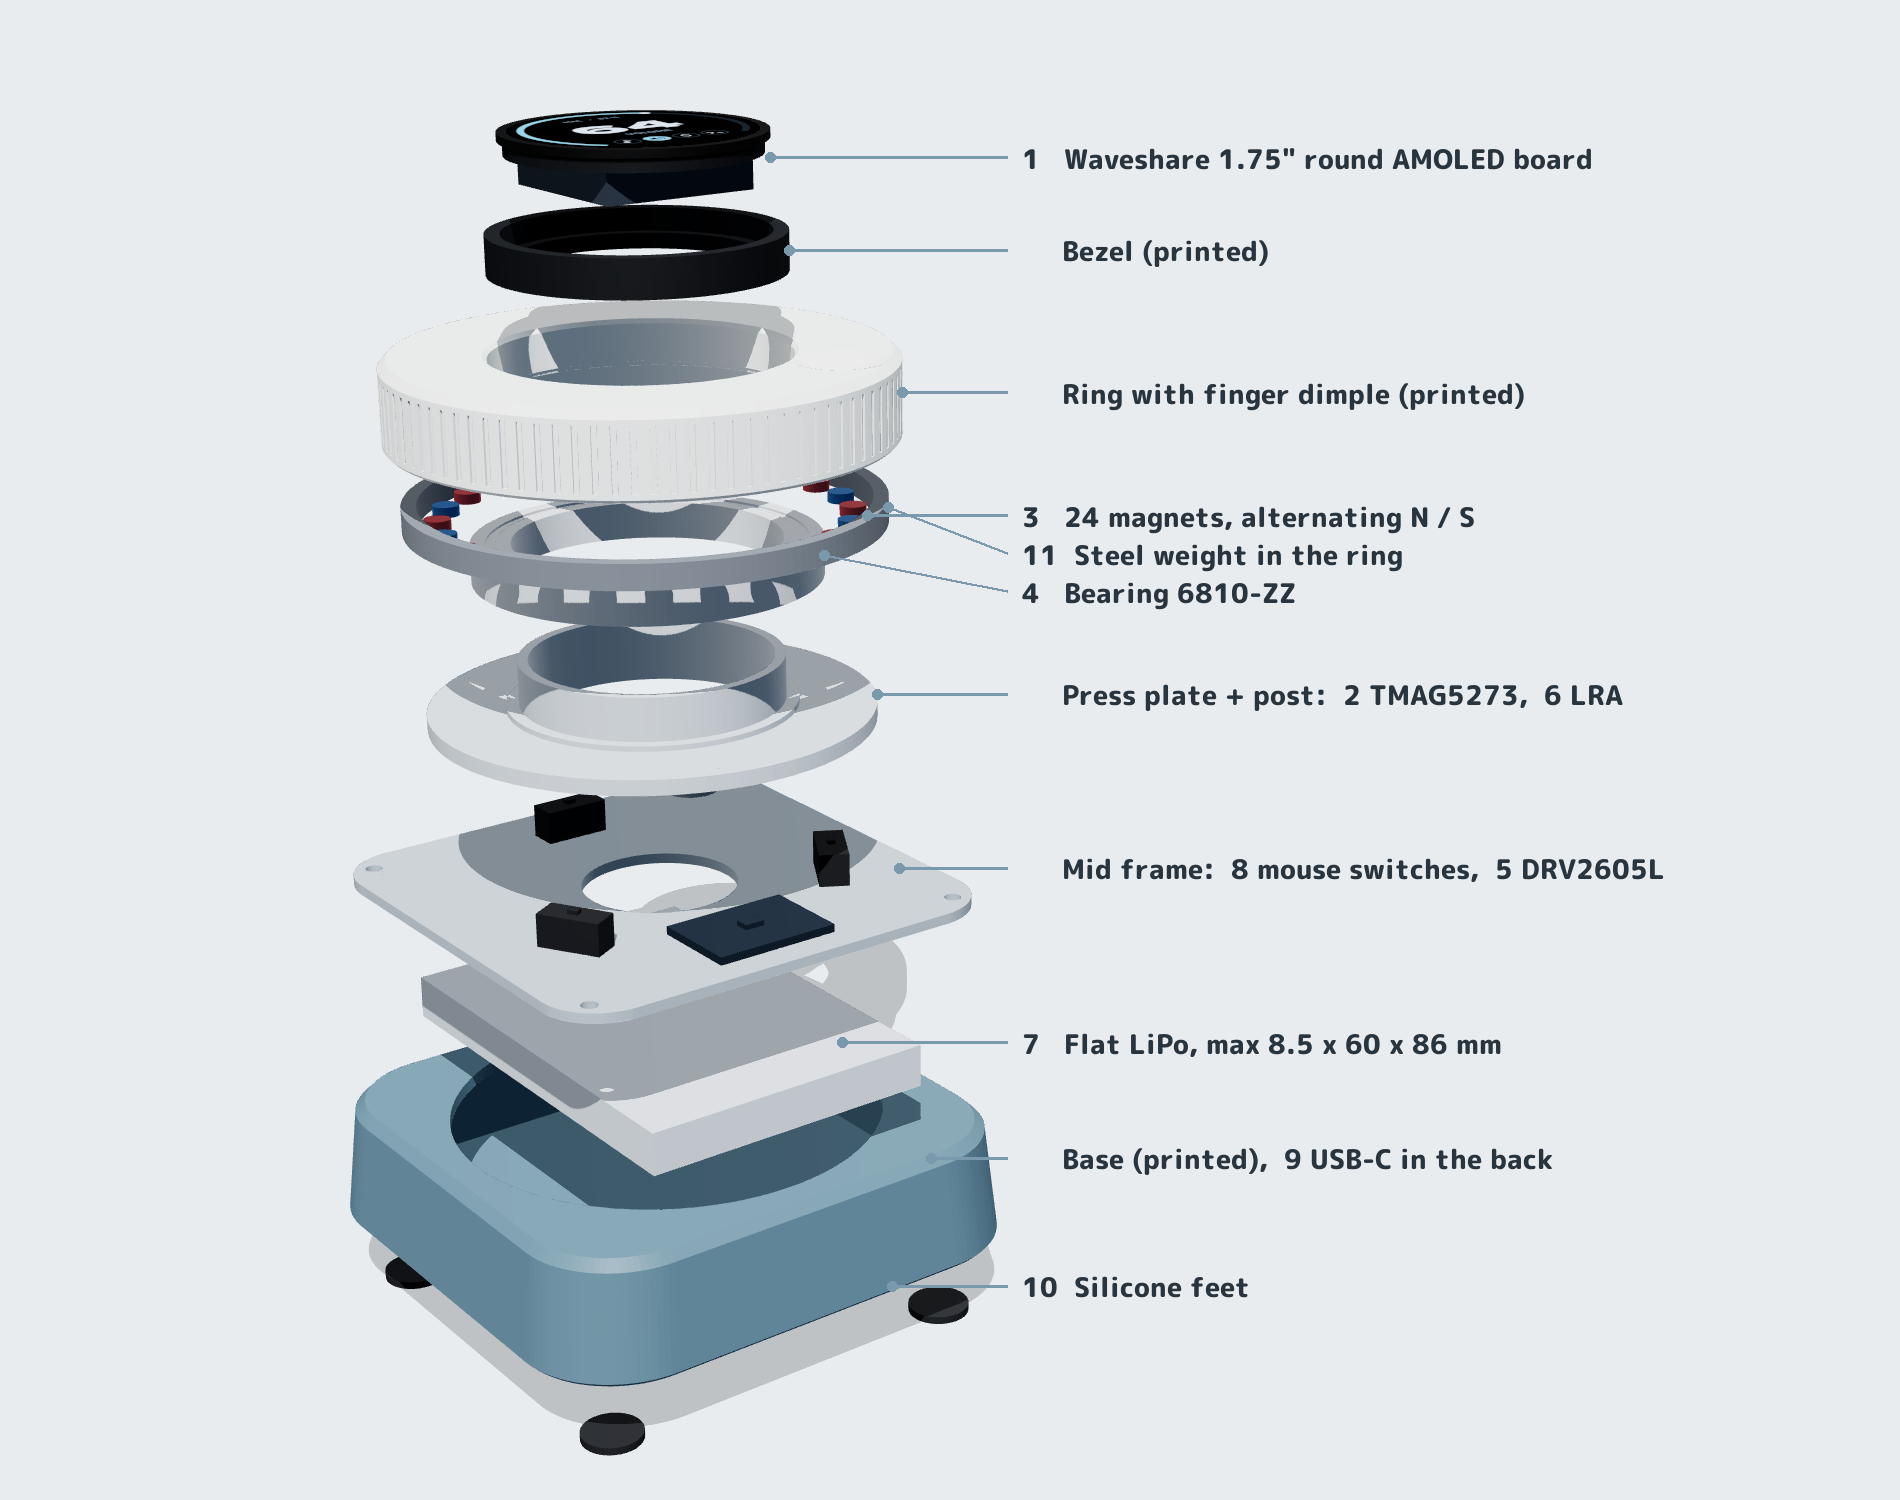
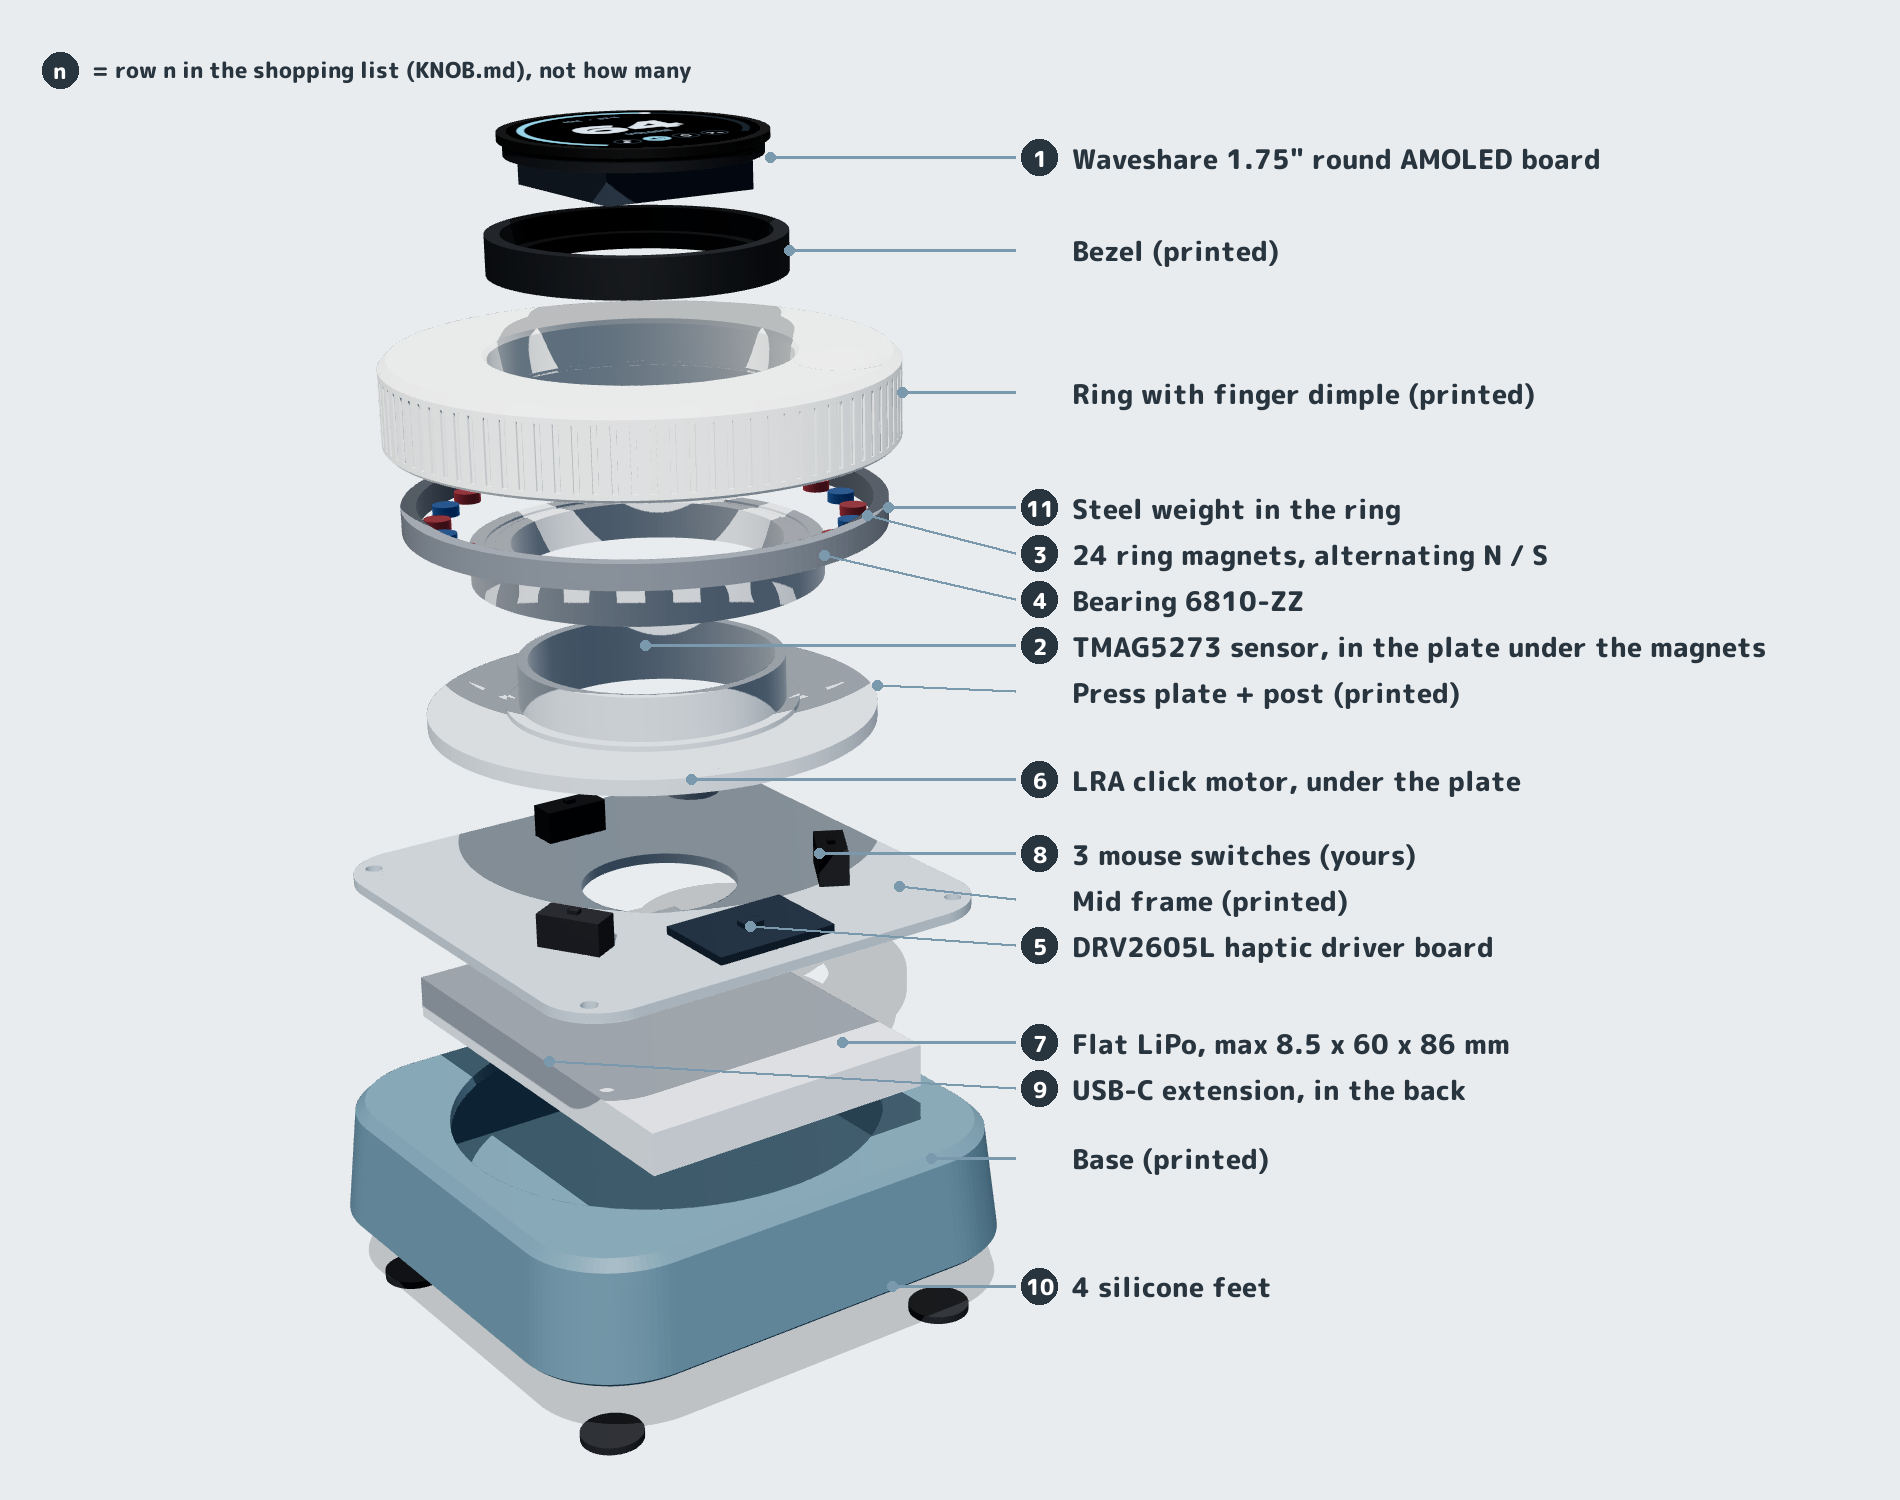
Desk knob: shopping list with part numbers and search terms, clearer exploded labels
The exploded image's numbers are now circles meaning shopping-list rows,
not quantities (1 sensor, 1 LRA, 1 haptic driver). LRA: Vybronics
VG1040003D (or PMD C10-100 / AliExpress 0832 LRA); ring magnets:
supermagnete S-05-02-N52N; every row has a search term.

Claude-Session: https://claude.ai/code/session_01GgfTwfxEfj6hEKR8udaAPD

diff --git a/case/knob/label.py b/case/knob/label.py
@@ -4,7 +4,7 @@
 Usage: python3 label.py OUTDIR RENDERS FONTDIR
 Reads OUTDIR/spec-exploded.json + OUTDIR/assembly/info.json, draws on
 RENDERS/exploded.png and writes RENDERS/exploded-labelled.png.
-Numbers match the parts list in KNOB.md.
+Balloon numbers = rows of the shopping list in KNOB.md (not quantities).
 """
 import json
 import sys
@@ -17,20 +17,24 @@ spec = json.load(open(f"{out}/spec-exploded.json"))
 info = json.load(open(f"{out}/assembly/info.json"))
 bbox = info["bbox"]
 
-GROUPS = [  # (label, parts it points at); numbers = KNOB.md parts list
-    ("1   Waveshare 1.75\" round AMOLED board", ["glass", "panel", "pcb", "pcb_parts"]),
-    ("     Bezel (printed)", ["bezel"]),
-    ("     Ring with finger dimple (printed)", ["ring"]),
-    ("3   24 magnets, alternating N / S", ["magnets_n", "magnets_s"]),
-    ("11  Steel weight in the ring", ["steel"]),
-    ("4   Bearing 6810-ZZ", ["bearing"]),
-    ("     Press plate + post:  2 TMAG5273,  6 LRA", ["plate", "tmag", "lra"]),
-    ("     Mid frame:  8 mouse switches,  5 DRV2605L", ["mid_frame", "switches", "drv2605"]),
-    ("7   Flat LiPo, max 8.5 x 60 x 86 mm", ["battery"]),
-    ("     Base (printed),  9 USB-C in the back", ["base", "usb_c"]),
-    ("10  Silicone feet", ["feet"]),
+GROUPS = [  # (shopping-list row in KNOB.md or None for printed parts, label, parts)
+    (1, "Waveshare 1.75\" round AMOLED board", ["glass", "panel", "pcb", "pcb_parts"]),
+    (None, "Bezel (printed)", ["bezel"]),
+    (None, "Ring with finger dimple (printed)", ["ring"]),
+    (3, "24 ring magnets, alternating N / S", ["magnets_n", "magnets_s"]),
+    (11, "Steel weight in the ring", ["steel"]),
+    (4, "Bearing 6810-ZZ", ["bearing"]),
+    (None, "Press plate + post (printed)", ["plate"]),
+    (2, "TMAG5273 sensor, in the plate under the magnets", ["tmag"]),
+    (6, "LRA click motor, under the plate", ["lra"]),
+    (None, "Mid frame (printed)", ["mid_frame"]),
+    (8, "3 mouse switches (yours)", ["switches"]),
+    (5, "DRV2605L haptic driver board", ["drv2605"]),
+    (7, "Flat LiPo, max 8.5 x 60 x 86 mm", ["battery"]),
+    (None, "Base (printed)", ["base"]),
+    (9, "USB-C extension, in the back", ["usb_c"]),
+    (10, "4 silicone feet", ["feet"]),
 ]
-
 off = {p["file"].rsplit("/", 1)[1][:-4]: np.array(p.get("offset", [0, 0, 0]), float) for p in spec["parts"]}
 
 
@@ -57,18 +61,33 @@ def project(p):
 img = Image.open(f"{renders}/exploded.png").convert("RGB")
 dr = ImageDraw.Draw(img)
 font = ImageFont.truetype(f"{fonts}/MPLUSRounded1c-ExtraBold.ttf", 27)
-INK, LINE = (40, 52, 62), (122, 153, 172)
-anchors = []
-for text, names in GROUPS:  # front-right corner of each group, mid height
-    b0, b1 = box_of(names)
-    anchors.append(project([b1[0] * 0.8, b0[1] * 0.6, (b0[2] + b1[2]) / 2]))
-col_x = max(a[0] for a in anchors) + 90
+small = ImageFont.truetype(f"{fonts}/MPLUSRounded1c-ExtraBold.ttf", 22)
+INK, LINE, R = (40, 52, 62), (122, 153, 172), 18
+
+
+def anchor_of(names):
+    lo, hi = box_of(names)
+    if hi[0] - lo[0] > 30:  # round-ish part centred on the axis: its front-right edge
+        return project([hi[0] * 0.8, lo[1] * 0.6, (lo[2] + hi[2]) / 2])
+    return project((lo + hi) / 2)  # small part: its middle
+
+
+rows = sorted(((anchor_of(n), num, text) for num, text, n in GROUPS), key=lambda r: r[0][1])
+col_x = max(a[0] for a, _, _ in rows) + 90
 last_y = -1e9
-for (text, names), anchor in zip(GROUPS, anchors):
-    y = max(anchor[1], last_y + 38)
+for anchor, num, text in rows:
+    y = max(anchor[1], last_y + 46)
     last_y = y
-    dr.line([anchor, (col_x - 14, y)], fill=LINE, width=3)
+    dr.line([anchor, (col_x - 6, y)], fill=LINE, width=3)
     dr.ellipse([anchor[0] - 5, anchor[1] - 5, anchor[0] + 5, anchor[1] + 5], fill=LINE)
-    dr.text((col_x, y), text, font=font, fill=INK, anchor="lm")
+    cx = col_x + R
+    if num is not None:  # balloon = row in the shopping list, NOT a quantity
+        dr.ellipse([cx - R, y - R, cx + R, y + R], fill=INK)
+        dr.text((cx, y + 1), str(num), font=small, fill=(255, 255, 255), anchor="mm")
+    dr.text((col_x + 2 * R + 14, y), text, font=font, fill=INK, anchor="lm")
+dr.ellipse([60 - R, 70 - R, 60 + R, 70 + R], fill=INK)
+dr.text((60, 71), "n", font=small, fill=(255, 255, 255), anchor="mm")
+dr.text((60 + R + 14, 70), "= row n in the shopping list (KNOB.md), not how many",
+        font=small, fill=INK, anchor="lm")
 img.save(f"{renders}/exploded-labelled.png")
 print("wrote exploded-labelled")

diff --git a/case/knob/knob.py b/case/knob/knob.py
@@ -395,7 +395,7 @@ def drv2605():
 
 
 def lra():
-    return cyl(10.0, Z_PLATE0 - 3.6, Z_PLATE0 - 0.02, -10.0, -28.0, seg=48)
+    return cyl(10.0, Z_PLATE0 - 4.0, Z_PLATE0 - 0.02, -10.0, -28.0, seg=48)  # VG1040003D: 10 x 4 mm
 
 
 def tmag():

diff --git a/KNOB.md b/KNOB.md
@@ -93,32 +93,34 @@ after a few seconds and wakes on touch, on turning or on pick-up.
 
 ## Shopping list
 
-Prices are rough, in kronor, including VAT and shipping. The numbers match
-the labels on the exploded render.
+Prices are rough, in kronor, including VAT and shipping. **Qty** is how
+many to buy. The numbered circles on the exploded image are the **#** of
+the row here, not how many (so it's 1 sensor, 1 LRA and 1 haptic driver).
+**Search for** is what to type in the shop's search box.
 
-| # | Part | Qty | Notes | ~kr |
-|---|------|-----|-------|-----|
-| 1 | **Waveshare ESP32-S3-Touch-AMOLED-1.75**, standard version without case (SKU 31261) | 1 | Waveshare store, AliExpress (Waveshare's own shop) or The Pi Hut. Check the schematic first, see "Before ordering" | 350–450 |
-| 2 | **TMAG5273 breakout**: Adafruit 6490 (the A2, ±133 mT range) | 1 | Use the A2: strong magnets 1–2 mm away can max out the A1. Add a JST-SH (STEMMA QT/Qwiic) to male-header cable | 100–140 |
-| 3 | **Neodymium disc magnets 5 × 2 mm, N52** | 30+ | 24 in the ring plus spares. AliExpress 50-packs | 40–80 |
-| 4 | **Bearing 6810-ZZ** (50 × 65 × 7 mm) | 1 | **ZZ** (metal shields), not 2RS (rubber seals drag). Wash out the grease and add a drop of light oil for a free spin | 50–100 |
-| 5 | **DRV2605L haptic driver board** | 1 | Adafruit 2305 (about 85 kr at RS Sweden) or an AliExpress clone (about 40 kr) | 40–85 |
-| 6 | **LRA, 10 mm coin** (~170–235 Hz) | 1–2 | Must be an LRA, not an ERM "vibration motor disc"; LRAs give the crisp tap | 30–60 |
-| 7 | **Flat LiPo, ~3000 mAh**, with a protection circuit, **no bigger than 8.5 × 60 × 86 mm** | 1 | Size codes read thickness-width-length: e.g. 805080 = 8 × 50 × 80 mm. The board takes a **2-pin MX1.25** plug. **Check the polarity with a multimeter before plugging in**: sellers wire it both ways | 100–150 |
-| 8 | Mouse micro switches | 3 | **You have these.** Modelled as Omron D2F size (12.8 × 5.8 × 6.5); tell me yours | 0 |
-| 9 | **USB-C panel-mount extension**, male to female with screw ears, 15–20 cm, angled male end if possible | 1 | Brings charging/flashing to the back of the base | 40–80 |
-| 10 | Silicone bumper feet | 8 | 4 × Ø12 mm for the knob, 4 × Ø10 mm for the dock. Clas Ohlson/Biltema | 20–40 |
-| 11 | Steel weight: 4.5 mm steel BBs (air-gun "stålkulor"), about 120 g, or M6 nuts | 1 pack | Glued into the ring's underside channel | 30–60 |
-| 12 | Wire (28–30 AWG silicone), M3 screws + heat-set inserts, filament | | You have these | 0 |
-| 13 | Magnets for the dock: 2 in the dock + 2 in the knob | 4 | **You may have these**; measure them first. The model has Ø10 × 3 mm in the dock and steel discs in the knob | 0–50 |
-| 14 | Magnetic charging connector, one part stays in the knob | 1 | You're picking one; its measurements set the pockets | 20–60 |
-| 15 | USB-C breakout board (5 V in) | 1 | For the back of the dock | 10–20 |
+| # | Part | Qty | Search for | Notes | ~kr |
+|---|------|-----|------------|-------|-----|
+| 1 | **Waveshare ESP32-S3-Touch-AMOLED-1.75**, standard version without case | 1 | `ESP32-S3-Touch-AMOLED-1.75` (Waveshare SKU 31261) | Waveshare store, AliExpress (Waveshare's own shop) or The Pi Hut. Check the schematic first, see "Before ordering" | 350–450 |
+| 2 | **TMAG5273 3D Hall sensor board**, A2 version | 1 | `Adafruit 6490` | The A2 (±133/266 mT), not the A1: strong magnets 1–2 mm away max out the A1. Add a JST-SH (STEMMA QT/Qwiic) to male-header cable | 100–140 |
+| 3 | **The 24 ring magnets: neodymium discs Ø5 × 2 mm, N52, axially magnetised** | 30 (24 + 6 spare) | `S-05-02-N52N` on supermagnete.se, or on AliExpress `neodymium magnet 5x2mm N52` (50-pack) | **Buy these new, all in one batch**, so all 24 are equally strong. Your own (stronger) magnets go in the dock (#13), not the ring: 24 magnets have to fit round the ring about 10 mm apart, so Ø5 is about the limit, and bigger ones would also max out the sensor. supermagnete is about 3–4 kr each, AliExpress less | 40–120 |
+| 4 | **Bearing 6810-ZZ** (50 × 65 × 7 mm) | 1 | `6810ZZ bearing` | **ZZ** (metal shields), not 2RS (rubber seals drag). Wash out the grease and add a drop of light oil for a free spin | 50–100 |
+| 5 | **DRV2605L haptic driver board** | 1 | `Adafruit 2305`, or on AliExpress `DRV2605L module` | Adafruit's is about 85 kr at RS Sweden; AliExpress clones about 40 kr | 40–85 |
+| 6 | **LRA click motor: Vybronics VG1040003D**, 10 mm coin (10 × 4 mm, 170 Hz, 2.5 Vrms) | 1 | `VG1040003D` (DigiKey, Mouser) | About 65 kr at DigiKey. It has contact pads, not wires: solder on two thin wires. **Same size with wires already on:** Precision Microdrives `C10-100` (10 × 3.7 mm, 175 Hz). **Cheap AliExpress option:** `0832 LRA linear vibration motor` (8 × 3.2 mm, 235 Hz, with wires; fits the same spot). It must say **LRA** or "linear": a plain "coin vibration motor" is an ERM and only buzzes. The firmware runs the DRV2605L at the LRA's own frequency (Vybronics advises open-loop at 170 Hz for this one) | 30–70 |
+| 7 | **Flat LiPo, ~3000 mAh**, with a protection circuit, **no bigger than 8.5 × 60 × 86 mm** | 1 | `805080 lipo 3000mAh` | The size code reads thickness-width-length: 805080 = 8 × 50 × 80 mm. The board takes a **2-pin MX1.25** plug. **Check the polarity with a multimeter before plugging in**: sellers wire it both ways | 100–150 |
+| 8 | Mouse micro switches | 3 | — | **You have these.** Modelled as Omron D2F size (12.8 × 5.8 × 6.5); tell me yours | 0 |
+| 9 | **USB-C panel-mount extension**, male to female with screw ears, 15–20 cm, angled male end if possible | 1 | `USB C panel mount extension cable` | Brings charging/flashing to the back of the base | 40–80 |
+| 10 | Silicone bumper feet | 8 | `silikonfötter` / `gummifötter` (Clas Ohlson, Biltema) | 4 × Ø12 mm for the knob, 4 × Ø10 mm for the dock | 20–40 |
+| 11 | Steel weight: 4.5 mm steel BBs, about 120 g, or M6 nuts | 1 pack | `stålkulor 4,5 mm` | Glued into the ring's underside channel; makes the ring coast when flicked | 30–60 |
+| 12 | Wire (28–30 AWG silicone), M3 screws + heat-set inserts, filament | | — | You have these | 0 |
+| 13 | Magnets for the dock: 2 in the dock + 2 in the knob | 4 | — | **Your own strong magnets**; measure them first. The model has Ø10 × 3 mm in the dock and steel discs in the knob | 0 |
+| 14 | Magnetic charging connector, one part stays in the knob | 1 | `magnetic pogo connector 2 pin` or `magnetic USB C adapter` | You're picking one; its measurements set the pockets | 20–60 |
+| 15 | USB-C breakout board (5 V in) | 1 | `USB-C breakout board 5V` | For the back of the dock | 10–20 |
 
-**Total: about 830–1330 kr.**
+**Total: about 830–1380 kr.** One of each electronic part; only the magnets, feet and steel come in quantities.
 
 ### Buy it in two phases
 
-1. **Phase 1, prove the idea** (#1–4 plus a printed test ring, about 550–750 kr):
+1. **Phase 1, prove the idea** (#1–4 plus a printed test ring, about 550–800 kr):
    the spin, the magnet sensing, the touch UI and Bluetooth scrolling.
 2. **Phase 2, make it a device** (#5–11, #13–15): clicks, battery, base, dock.
 
